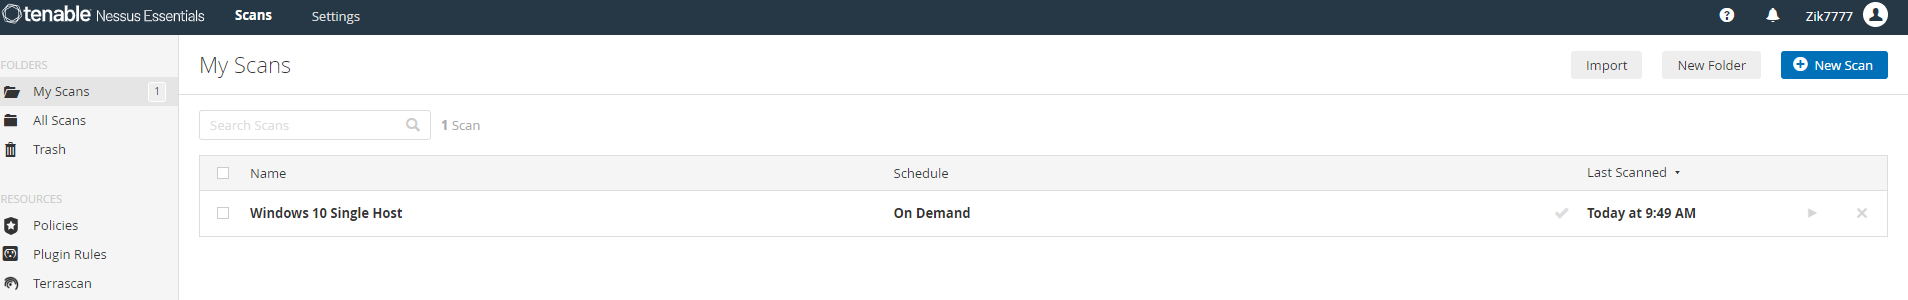
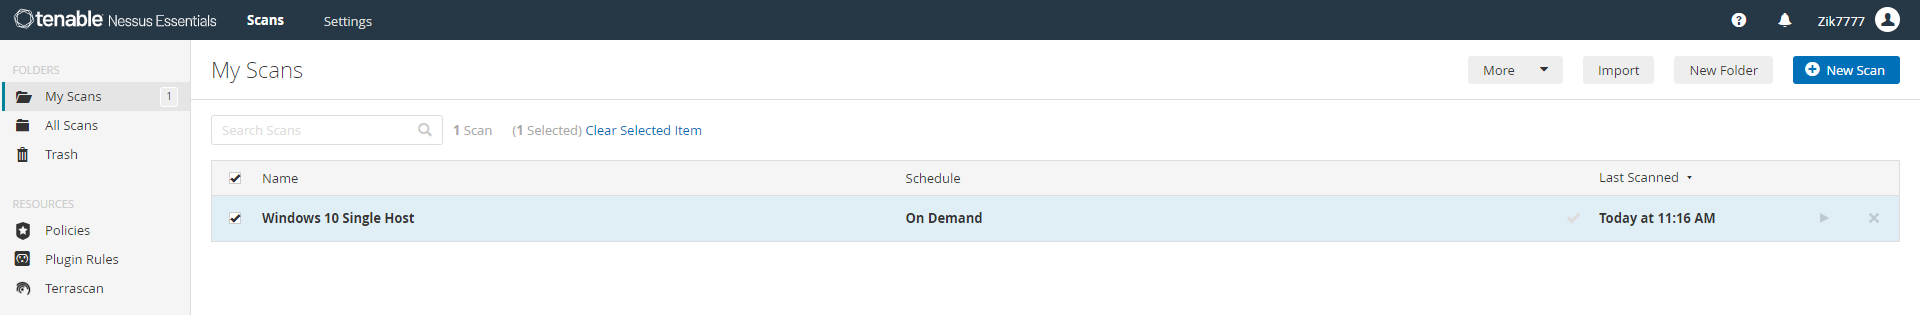
credential scans

diff --git a/README.md b/README.md
@@ -4,7 +4,7 @@
 - Prepare Nessus Vulnerability Management Scanner
 - Prepare Client Virtual Machine
 - Perform Basic Scan against the Windows 10 VM
-- Setup the VM To Accept Authenticated Scans 
+- Setup the VM To Accept Authenticated Scans and Install Outdated Softwares
 - Perform Vulnerability Scan after providing credentials to Nessus
 - Compare and Remediate Vulnerabilities
 - Verify Remediations
@@ -74,7 +74,7 @@
 ![Basic Scan result](./images/BN-scan7.png)
 ![Basic Scan result](./images/BN-scan8.png)
 
-## Setup the VM To Accept Authenticated Scans
+## Setup the VM To Accept Authenticated Scans and Install outdated softwares
 1. Next, we go to the VM and launch the Services pane by typing services in the search bar. Enable Remote Registry and turn it on (this will allow the scanner to connect to the VM registry and crawl to look for insecure configurations): Double click on it → Start Type: Automatic → Apply/Start → OK → Close services pane.
 ![Launch services window on VM](./images/services.png)
 ![enable remote registry](./images/enable-rr.png)
@@ -111,10 +111,11 @@
 
 
 ## Compare and Remediate Vulnerabilities
-- Check SMB Login under “Results”
-Further inspect the individual vulnerabilities and see all the Criticals from the out-of-date FireFox
-Remove the Filter (upper right)
-![the scan report](./images/scanreport.png)
+1. After Nessus has complete the scan, click on it to view the scan details. We see that from the latest scan the VM has 43 critical vulnerabilities, out of wich 42 marked as high, 9 vulerabilities marked as medium and 188 marked as info. From the foregoing we can see that credential scan allows more granular scan and enables more vulnerabilities to be discovered.
+[the scan report](./images/scanreport.png)
+
+2. Click on the Vulnerabilities tab to see the list of findings.  
+![the scan report](./images/listoffindings.png)
 
 
 ## Verify Remediation
